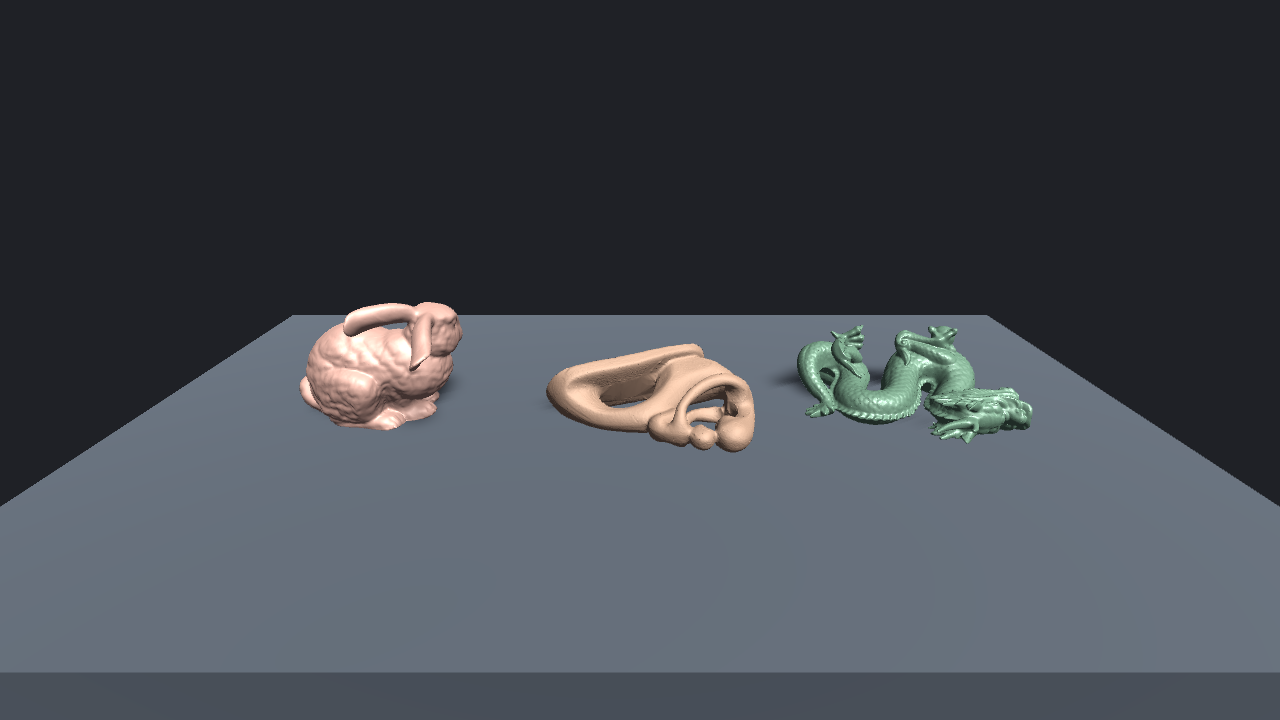
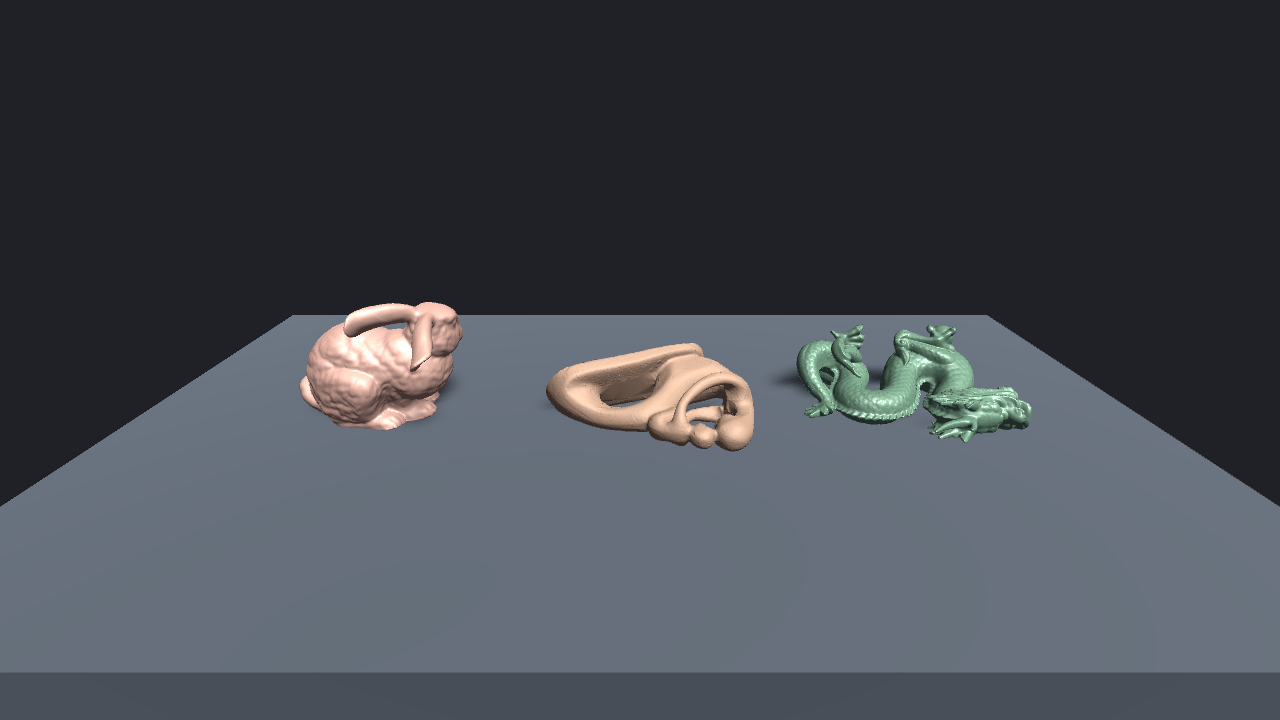
docs: 合并 BUG-13 后重新截取 S12
原因：BUG-13 的修改（节点质量下限、折叠接触按静止 SDF 判断侧别）改变了仿真结果，
S12 的截图与 ROADMAP 中的“当前结果”来自修改之前。

改动：用 f4f14e1 重新截取 S12a–S12d（工程副本 batchmode），更新 docs/images 与
ROADMAP S12 行：Fertility 分成 4861 / 2739、龙 5438 / 2800，兔子耳朵提起 3.3 cm；静止后
最大节点速度兔子 0.007 m/s、Fertility 与龙低于 0.001 m/s（修改前 1.8、3.5、0.13 m/s）。

验证：截图工具运行成功并目测截图；运行时代码与 f4f14e1 相同。

diff --git a/docs/TODO.md b/docs/TODO.md
@@ -317,3 +317,4 @@ public sealed class ApxHapticBridge
 | 2026-10-28 | `3b70eee` | 真实网格演示场景与标准场景 S12（`Assets/Samples/RealMeshDemo`）：三个 FBX 测试模型在桌面上，Fertility、龙全切后拉开，镊子提起兔子的耳朵；截图加入 `docs/images` 与 README，ROADMAP 加入 S12 |
 | 2026-10-28 | `2d5e8f8` | BUG-13 部分：节点质量下限为体素质量的 1/16，只属于一个几乎为空的体素的角点不再在子步之间来回运动（bunny 48 关闭 `selfCollision` 落地 150 步：23 个节点 0.49 m/s → 0 个、0.002 m/s）。基准测试 16 组 4 个阶段的哈希全部改变（静止阶段也有约束修正的舍入），重写基线；全切块数 14 组不变，bunny 64 由 11 块变为 10 块且不再分成两大块（69541 / 3 / 2 / 1；落下 90 步后最大节点速度 3.3 m/s，刀经过时物体仍在大幅运动），dragon 48 由 4 块变为 8 块（两大块 7061 / 5620，另有不超过 57 个节点的碎块） |
 | 2026-10-28 | `8ff475b` | BUG-13 部分完成：同一块的折叠接触改为按静止 SDF 判断侧别（`FoldCellsJob`、`BuildFoldHashJob`、`FindFoldCandidatesJob`、`FoldContactJob`，每个子步一次）；新增 EditMode 测试 `SaggingArmRestsOnTheBodyInsteadOfPassingThrough`（C 形物体）。C 形物体与 bunny 48 满足验收；基准测试 box 4 组、liver 16、dragon 16 的 4 个阶段哈希与上一提交相同，其余 10 组落下及以后的阶段改变（静止阶段相同），重写基线；全切块数与 BUG-13 之前的基线相比 bunny 64（11 → 6，不再分成两大块）与 dragon 64（2 → 4，另有两个碎块）改变，未满足验收中的这一项；更新 17 张标准场景截图（位置与形状略有变化，无新的缺陷） |
+| 2026-10-28 | — | 合并 BUG-13（`f4f14e1`）后重新截取 S12，更新 `docs/images` 与 ROADMAP“当前结果”：静止后最大节点速度兔子 0.007 m/s、Fertility 与龙低于 0.001 m/s |

diff --git a/docs/ROADMAP.md b/docs/ROADMAP.md
@@ -37,12 +37,12 @@ S7 留给缝合（TODO SUT-9）。以下交互场景在 `Assets/Samples/Interact
 | S11 | 塑性与粘附 | 塑性材料被球压一次后保留压痕；带粘附的平板抬起时组织表面随之上移，超过粘附距离后脱离 | 压痕保留（中部 30.4 → 25.2 mm）；组织随平板上移 |
 
 以下真实网格场景在 `Assets/Samples/RealMeshDemo/RealMeshDemo.unity` 中（菜单 `AdaptorPhysX/Build Real Mesh Demo Scene` 生成），
-由 `AdaptorPhysX/Capture Real Mesh Scenarios` 按脚本执行并输出截图（2026-10-28，工作树 `dev/m6-perf`）。模型为
+由 `AdaptorPhysX/Capture Real Mesh Scenarios` 按脚本执行并输出截图（2026-10-28，合并 BUG-13 之后的 `f4f14e1`）。模型为
 `Assets/AdaptorPhysX/Arts/Models` 中的 FBX，分辨率 40（体素 4–5 mm），E = 60 kPa。
 
 | 编号 | 场景 | 验收内容 | 当前结果 |
 |---|---|---|---|
-| S12 | 真实网格 | 扫描版兔子（底部有孔）、Fertility（亏格 4）、龙（87 万三角形）静止在桌面上，表面与原模型一致；Fertility、龙全切后拉开，切面完整；镊子提起兔子的耳朵 | Fertility 分成 4862 / 2738、龙分成 5428 / 2810 两块，拉开后切面完整；兔子耳朵提起 3.4 cm。静止后兔子、Fertility 的最大节点速度 1.8、3.5 m/s，不能休眠（TODO BUG-13）；兔子耳朵在自重下下垂 |
+| S12 | 真实网格 | 扫描版兔子（底部有孔）、Fertility（亏格 4）、龙（87 万三角形）静止在桌面上，表面与原模型一致；Fertility、龙全切后拉开，切面完整；镊子提起兔子的耳朵 | Fertility 分成 4861 / 2739、龙分成 5438 / 2800 两块，拉开后切面完整；兔子耳朵提起 3.3 cm。静止后最大节点速度兔子 0.007 m/s、Fertility 与龙低于 0.001 m/s（BUG-13 修改前为 1.8、3.5、0.13 m/s）；兔子耳朵在自重下下垂 |
 
 ## 里程碑
 
